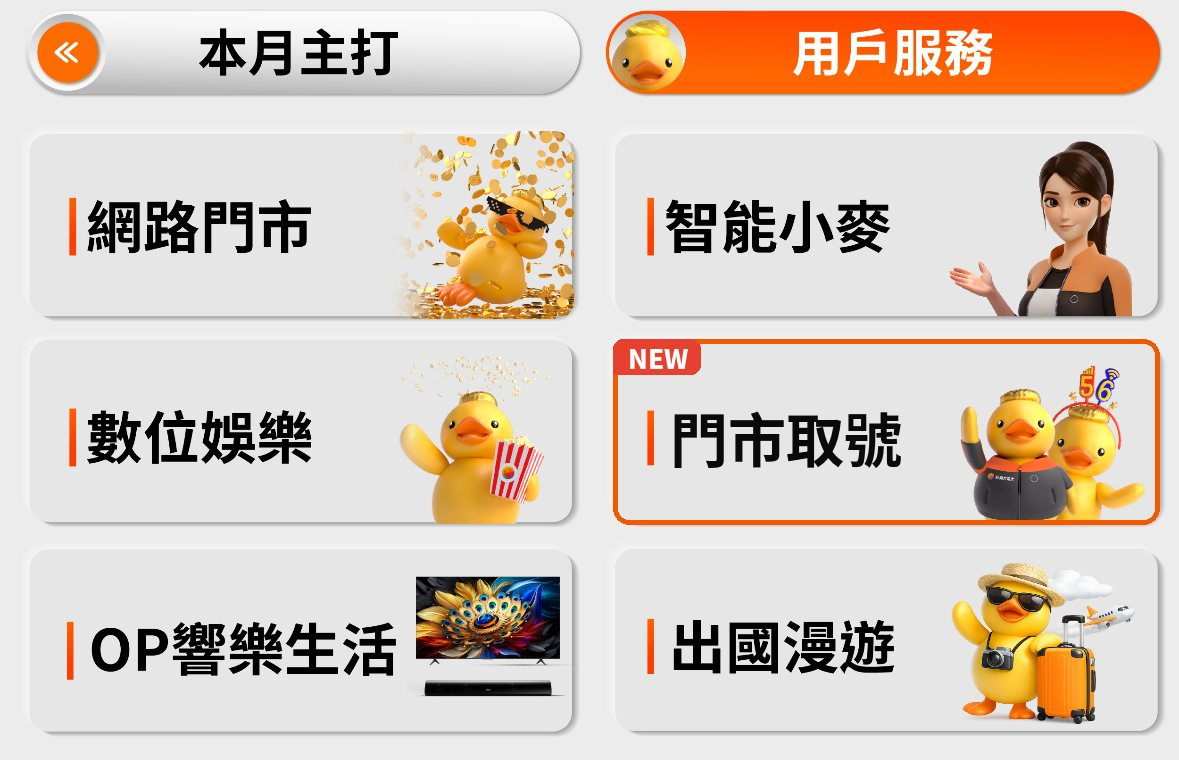
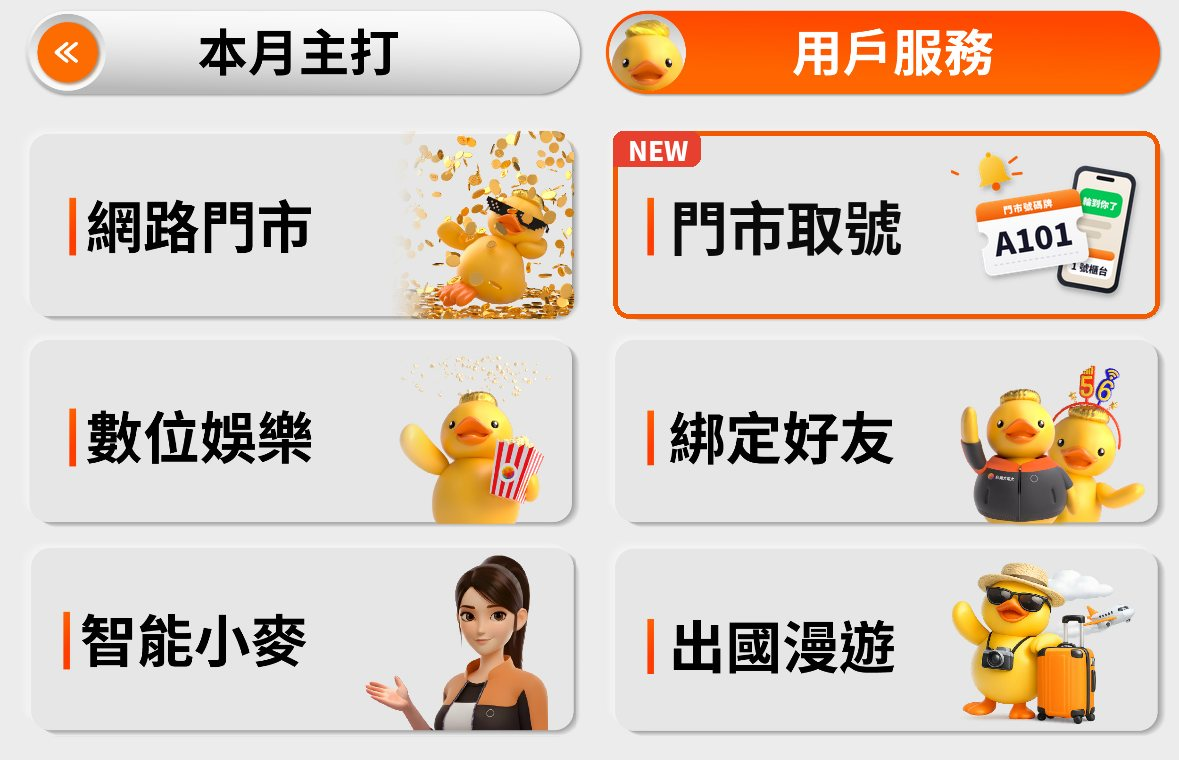
LINE menu: 門市取號 in the 智能小麥 slot with new illustration; restore 綁定好友; move 智能小麥 to bottom-left
Claude-Session: https://claude.ai/code/session_01PdPFGgDqyBYjrKHydGj2mN

Changed region(s): [[0.5191, 0.1513, 1.0, 0.6961], [0.0305, 0.7263, 0.4885, 0.9684]]

diff --git a/line.html b/line.html
@@ -267,9 +267,9 @@ let tab="svc";
 const RM={W:1179,H:760,
   tabs:[["promo",28,10,580,97],["svc",607,10,1160,97]],
   svc:{img:"line-assets/menu-service.jpg",bg:"#ececec",hot:[
-    ["promo:網路門市","網路門市",28,130,576,320],["ai:智能小麥","智能小麥",612,130,1160,320],
-    ["promo:數位娛樂","數位娛樂",28,338,576,525],["hub","門市取號（新功能）",612,338,1160,525],
-    ["promo:OP響樂生活","OP響樂生活",28,546,576,735],["promo:出國漫遊","出國漫遊",612,546,1160,735]]},
+    ["promo:網路門市","網路門市",28,130,576,320],["hub","門市取號（新功能）",612,130,1160,320],
+    ["promo:數位娛樂","數位娛樂",28,338,576,525],["promo:綁定好友","綁定好友",612,338,1160,525],
+    ["ai:智能小麥","智能小麥",28,546,576,735],["promo:出國漫遊","出國漫遊",612,546,1160,735]]},
   promo:{img:"line-assets/menu-promo.jpg",bg:"#ffffff",hot:[
     ["promo:全新 iPhone 一應俱全","全新 iPhone",37,118,1148,532],["promo:全能超 5G","全能超 5G",37,550,584,747],["promo:高效解鎖 享樂由我","在外 5G・在家 Wi-Fi 7",605,550,1153,747]]}};
 const pct=(x0,y0,x1,y1)=>`left:${x0/RM.W*100}%;top:${y0/RM.H*100}%;width:${(x1-x0)/RM.W*100}%;height:${(y1-y0)/RM.H*100}%`;

diff --git a/現場Demo操作步驟.md b/現場Demo操作步驟.md
@@ -67,7 +67,7 @@
 **LINE 官方帳號取號（概念示意）**
 - 大螢幕右下角按「QR：網頁版」切換成「QR：LINE 版」，評審掃到的就是 LINE 官方帳號風格的取號畫面。
 - 取號、快輪到、叫號、辦完評分，都會以「官方帳號傳訊息」的方式出現，和網頁版同一個場次、同時運作。
-- 畫面直接用台灣大哥大 Open Possible 官方帳號的圖文選單截圖（line-assets/ 資料夾），上面疊透明按鈕。「本月主打」是原本的三張橫幅；「用戶服務」把「綁定好友」那格換成「門市取號 NEW」，其他格點了是示意。
+- 畫面直接用台灣大哥大 Open Possible 官方帳號的圖文選單截圖（line-assets/ 資料夾），上面疊透明按鈕。「本月主打」是原本的三張橫幅；「用戶服務」右上角（原本智能小麥）換成「門市取號 NEW」，智能小麥移到左下（原本 OP響樂生活），其他格點了是示意。
 - 點「門市取號」後，官方帳號回一張「門市取號」功能卡（借鏡銀行「行動取號」的做法）：線上取號、我的號碼、選擇門市、門市現況、滿意度調查、更多服務。智能小麥也會引導「幫我線上取號」。
 - **選擇門市**：門市清單、地址、預估等候時間都直接用叫號說 App 的資料（可依縣市切換或搜尋，例如打「西門町」）。現場連線的門市會標「現場連線」並排在最前面；選其他門市取號會用模擬隊伍，畫面會標「示意」。排隊中不能換門市。
 - **服務滿意度調查**：辦完後官方帳號傳一張卡片，點表情或「填寫服務滿意度調查」，題目跟 App 一樣（櫃台人員的服務／等候時間／問題處理的結果，1–5 分），有 2 分以下會問要不要主管聯絡。
